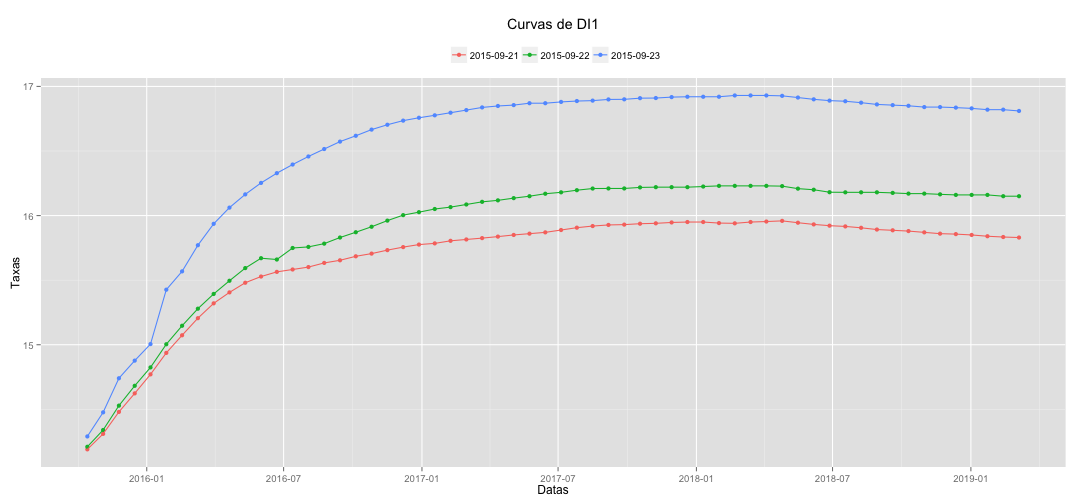
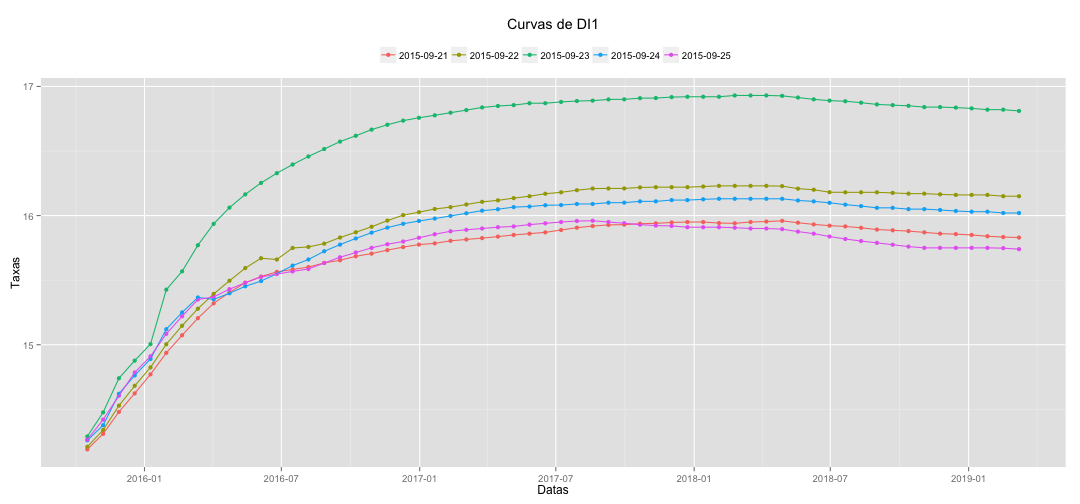
Atualização do post para inclusão de novos dados
- pelicanconf.py: inclusão do diretório images em static_paths

diff --git a/pelicanconf.py b/pelicanconf.py
@@ -44,7 +44,7 @@ DISQUS_SITENAME = 'aboutwilson'
 TWITTER_USERNAME = 'aboutwilson'
 # GITHUB_URL = 'https://github.com/wilsonfreitas'
 
-STATIC_PATHS = ['figure', 'datasets', 'talks',
+STATIC_PATHS = ['figure', 'datasets', 'talks', 'images',
     # 'extra/CNAME',
     'extra/google5b4e57fed68382ab.txt']
 STATIC_EXCLUDE_SOURCES = False
